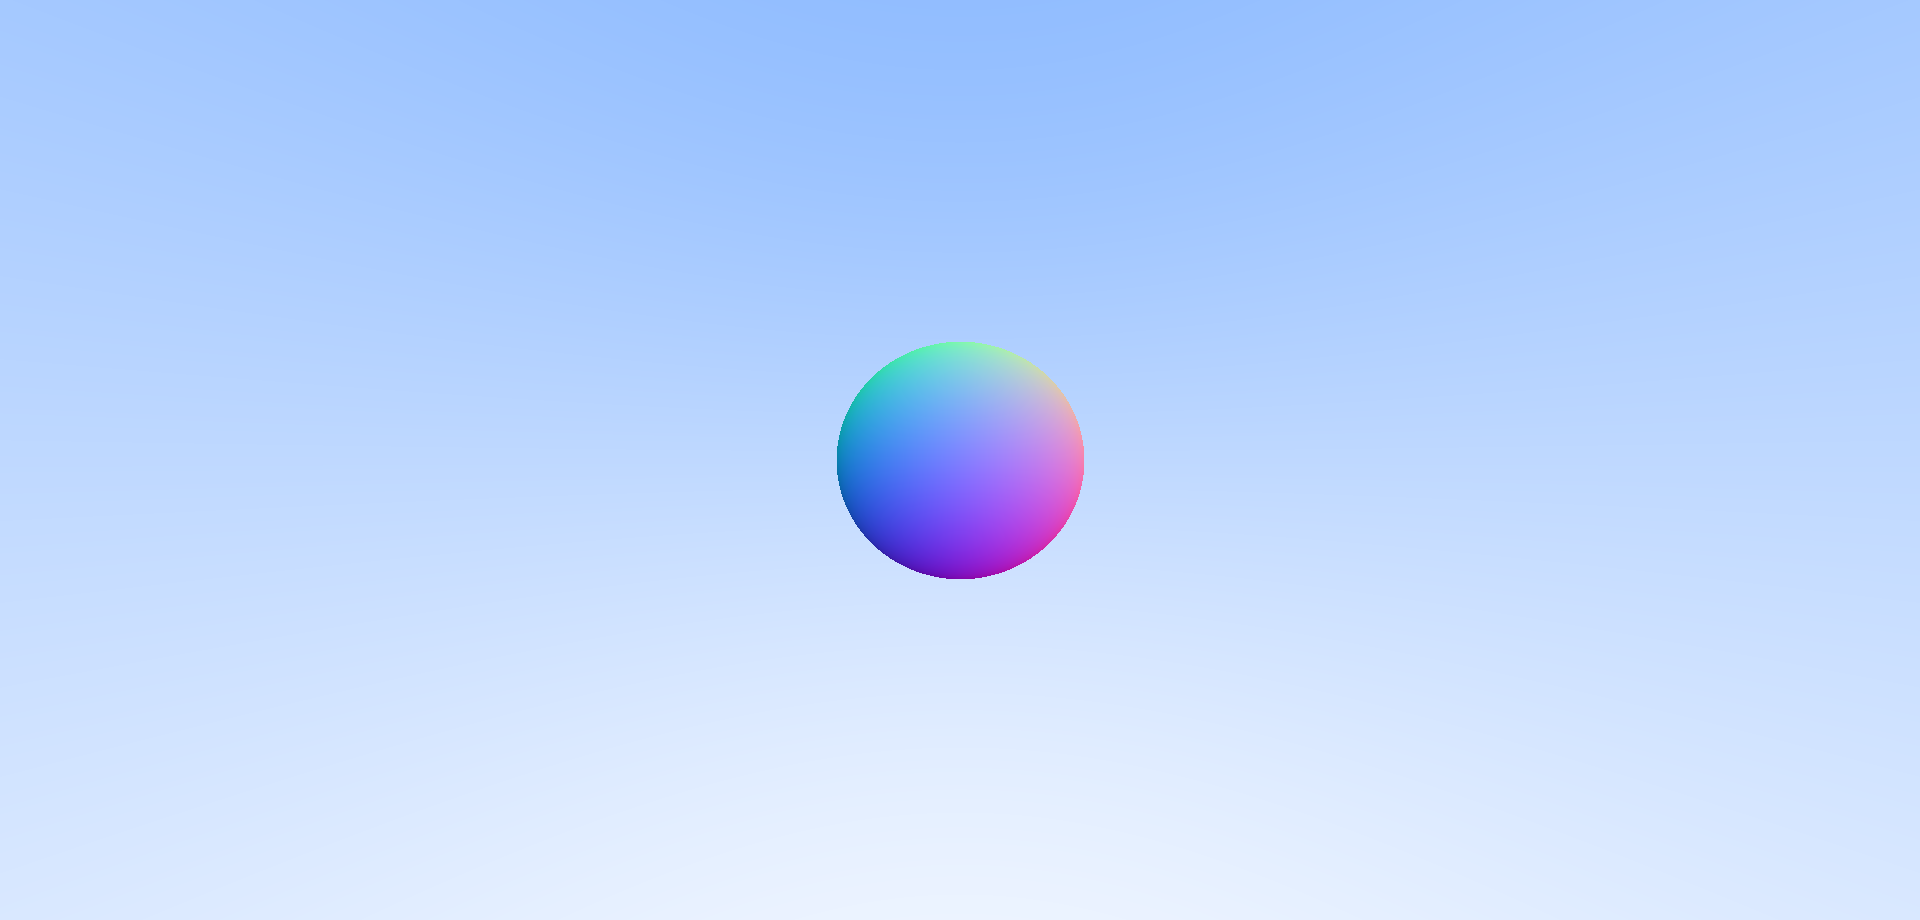
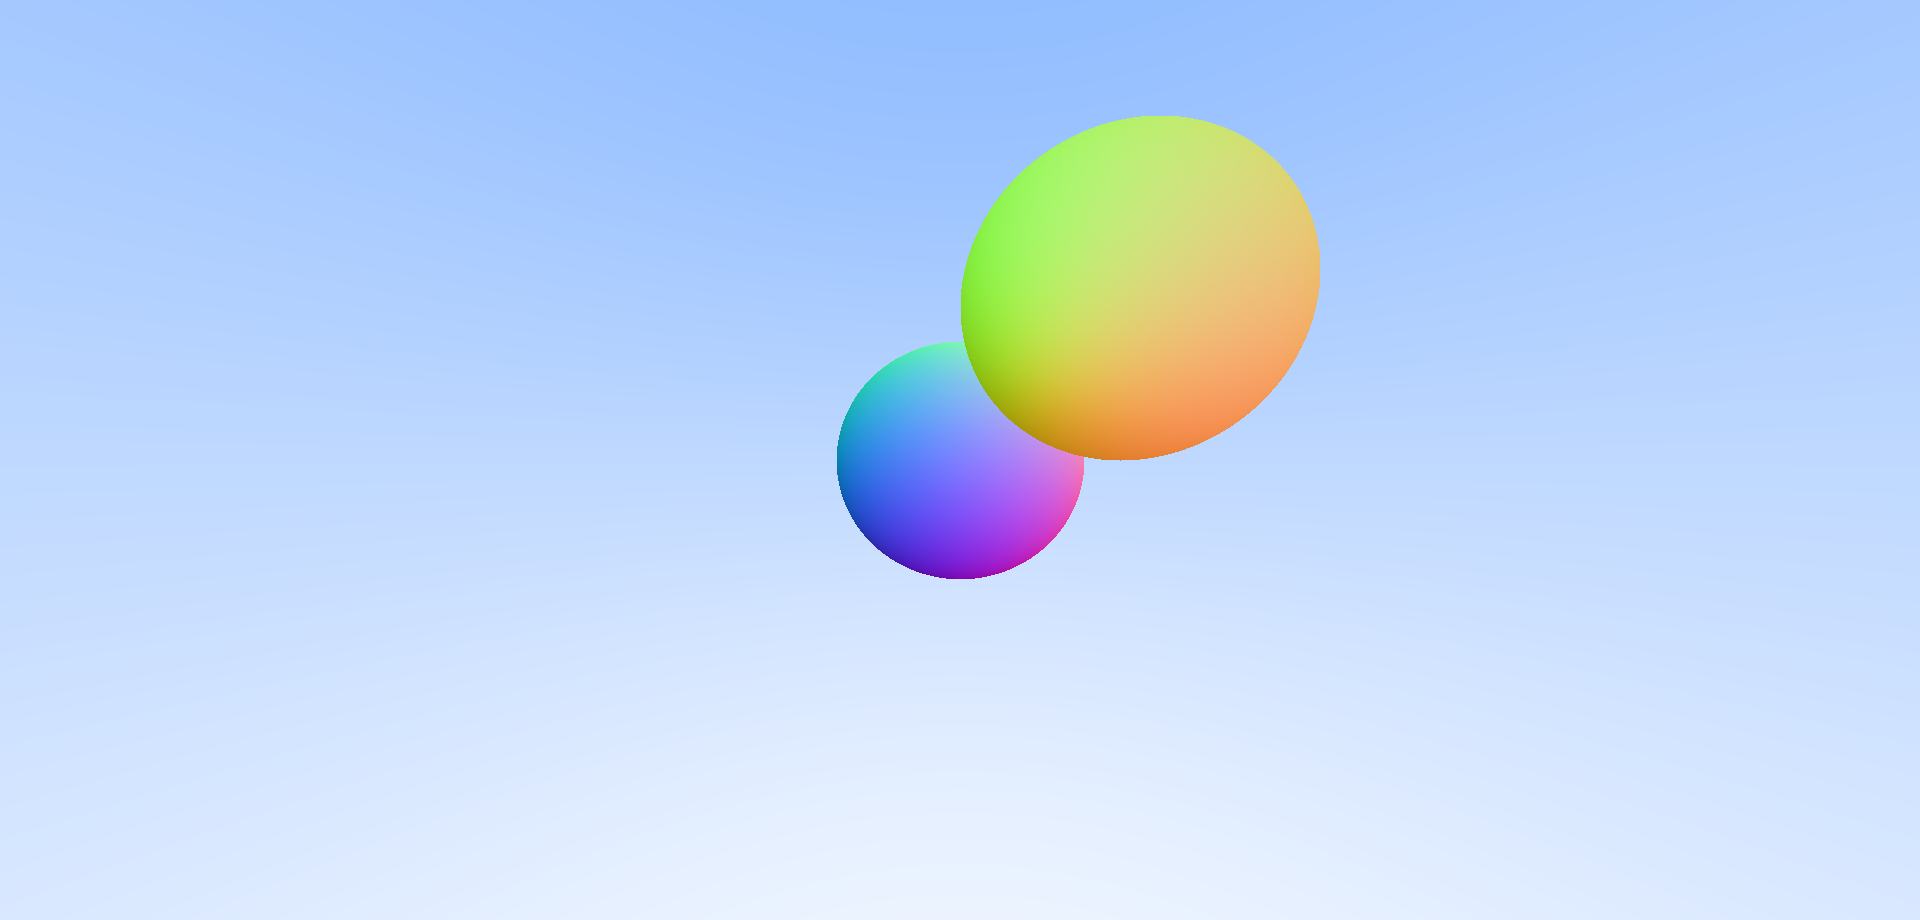
scene and multiple spheres

Changed region(s): [[0.5, 0.1217, 0.6875, 0.5174]]

diff --git a/src/main.rs b/src/main.rs
@@ -5,7 +5,7 @@ pub mod scene;
 
 use ray::Ray;
 use vector::Vector3;
-use scene::{Sphere};
+use scene::{Scene, Sphere};
 
 pub fn main() {
     let nx = 1920;
@@ -37,7 +37,16 @@ fn test_color(r: Ray) -> Rgba<u8> {
         center: Vector3::from_xyz(0., 0., -2.),
         radius: 0.5
     };
-    let t =  sphere.intersect(&r);
+    let sphere1 = Sphere {
+        center: Vector3::from_xyz(1., 1., -3.),
+        radius: 1.
+    };
+    let mut scene = Scene {
+        items: Vec::new()
+    };
+    scene.items.push(sphere);
+    scene.items.push(sphere1);
+    let t =  scene.trace(&r);
     if t > 0. {
         let N = (r.point_at(t) - Vector3::from_xyz(0., 0., -2.)).normalize();
         let cN = 0.5 * 255. * Vector3::from_xyz(N.x + 1., N.y + 1., N.z + 1.);

diff --git a/src/scene.rs b/src/scene.rs
@@ -19,3 +19,20 @@ impl Sphere {
         }
     }
 }
+
+pub struct Scene {
+    pub items: Vec<Sphere>
+}
+
+impl Scene {
+    pub fn trace(&self, r: &Ray) -> f64 {
+        let mut p: f64 = -1.;
+        for item in self.items.iter() {
+            let k = item.intersect(&r);
+            if k > 0. {
+                p = k;
+            }
+        }
+        p
+    }
+}
